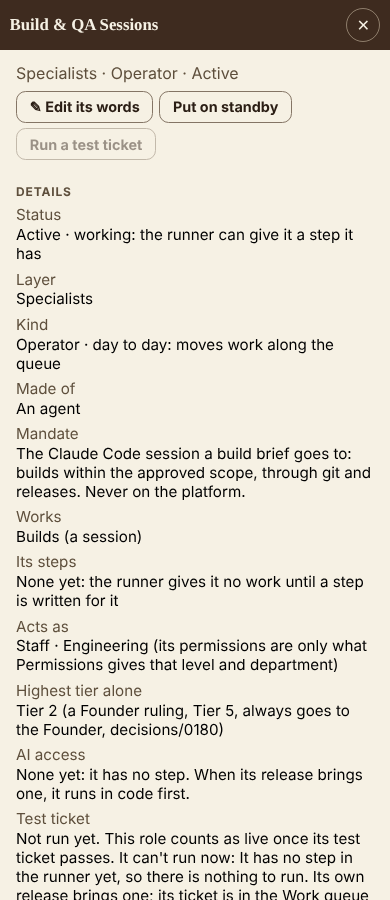
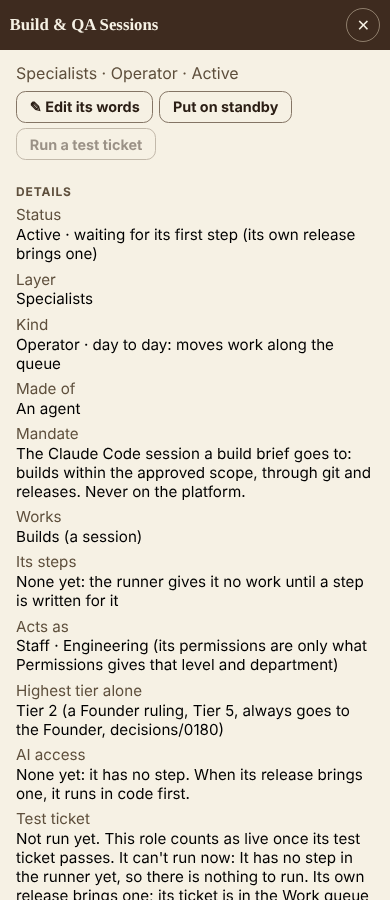
Run a test ticket: the Design look's two word fixes (Status on a role with no step; the greyed button's title checked); still not sent (#1678)
test-ticket.php 45/45, test-ticket.cjs 26/26 at 1280 and 390, audit.php 34.

Claude-Session: https://claude.ai/code/session_01CXLi5jUERktaQyfVHekd5i

Changed region(s): [[0.1846, 0.2489, 0.9231, 0.3111], [0.0615, 0.28, 0.1538, 0.3111]]

diff --git a/tools/team-tests/test-ticket.php b/tools/team-tests/test-ticket.php
@@ -117,6 +117,10 @@ $d = $T['get']($pdo, (int) $role('qa-security')['id']);
 $t('a role that can\'t run yet: the button is greyed with why', str_contains($act($d, 'test')['off'] ?? '', 'no step in the runner yet'));
 $f = []; foreach ($d['fields'] as [$k, $v]) $f[$k] = $v;
 $t('and the page says why in words too (a title never shows on a phone)', str_contains($f['Test ticket'] ?? '', 'Not run yet') && str_contains($f['Test ticket'] ?? '', 'It can\'t run now: It has no step in the runner yet'));
+$t('its Status is true to Its steps: active, waiting for its first step', ($f['Status'] ?? '') === 'Active · waiting for its first step (its own release brings one)' && str_starts_with($f['Its steps'] ?? '', 'None yet'), $f['Status'] ?? '');
+$t('the greyed button\'s reason is the same as its Test ticket row', str_contains($f['Test ticket'], $act($d, 'test')['off']));
+$dp = $T['get']($pdo, (int) $role('project-manager')['id']); $fp = []; foreach ($dp['fields'] as [$k, $v]) $fp[$k] = $v;
+$t('a role with a step keeps its Status words', str_starts_with($fp['Status'] ?? '', 'Active · ') && !str_contains($fp['Status'], 'waiting for its first step'));
 $d = $T['get']($pdo, (int) $role('advocate-guest')['id']); $f = []; foreach ($d['fields'] as [$k, $v]) $f[$k] = $v;
 $t('an advocate\'s page says it only looks, and where its release is', str_contains($f['Test ticket'] ?? '', 'only looks') && str_contains($act($d, 'test')['off'] ?? '', 'only looks'));
 $d = $T['get']($pdo, (int) $role('founder')['id']);

diff --git a/handoffs/team-test-ticket/build/app/admin/tools.php b/handoffs/team-test-ticket/build/app/admin/tools.php
@@ -2479,7 +2479,8 @@ return [
             $vet = is_file(__DIR__ . '/../lib/TeamVet.php'); if ($vet) require_once __DIR__ . '/../lib/TeamVet.php';   // Run a test ticket (Jason, 2026-11-28): the result and its cost, on the role's own page
             $steps = array_map(fn ($k) => TeamRunner::STEPS[$k][1] . ' (' . ['act' => 'acts', 'propose' => 'proposes; a person accepts', 'off' => 'off until agents work past ' . TeamRunner::CEILINGS[$cl][0]][TeamRunner::STEP_AT[$k][$cl]] . ')', $steps0);
             $fields = [
-                ['Status', (TeamRoster::STATUSES[$st][0] ?? $st) . ' · ' . lcfirst(TeamRoster::STATUSES[$st][1] ?? '')],
+                ['Status', $st === 'active' && !$isF && !$adv && !$steps0 ? (TeamRoster::STATUSES[$st][0] ?? $st) . ' · waiting for its first step (its own release brings one)'   // true to Its steps: "None yet" (the Design look, 2026-11-28)
+                    : (TeamRoster::STATUSES[$st][0] ?? $st) . ' · ' . lcfirst(TeamRoster::STATUSES[$st][1] ?? '')],
                 ['Layer', TeamRoster::DEPARTMENTS[$r['department']][0] ?? (TeamRoster::OLD_DEPARTMENTS[$r['department']] ?? $r['department'])],
                 ['Kind', (TeamRoster::KINDS[$r['kind']][0] ?? $r['kind']) . ' · ' . lcfirst(TeamRoster::KINDS[$r['kind']][1] ?? '')],
                 ['Made of', TeamRoster::MADE_OF[$r['made_of']] ?? $r['made_of']],

diff --git a/handoffs/team-test-ticket/README.md b/handoffs/team-test-ticket/README.md
@@ -8,18 +8,21 @@ Ticket: "Ready to be vetted: /admin/config/team shows each role's charter, lane,
   `TeamRunner::run`, then Undo or Dismiss and Withdraw), `last()`, `lastWords()`, `aiWords()`. The last result is one row a role in
   `team_settings` (`vet:<slug>`); no migration.
 - **Changed:** `app/admin/tools.php` (`config/team` only): the fields AI access and Test ticket, the action Run a test ticket
-  (greyed with `off`, as Run the audit now is), and its act. No live line replaced.
+  (greyed with `off`, as Run the audit now is, its title the same reason as its Test ticket row), and its act. One live line
+  replaced: Status on an active role with no step reads "Active · waiting for its first step (its own release brings one)"
+  (the Design look, 2026-11-28).
 - **FAQ:** `faq-entry.md`, to merge into the live `faq.md` at send (faq.md is in flight in pause-1a-4).
 - `TeamRunner.php` is not touched: no rule changes, the tree's approval stays, and nothing clashes with agent 01's held build.
 
 ## Tests (the live app plus this build, with the migrations)
-- `php tools/team-tests/test-ticket.php <root>/app`: 42 of 42 on MariaDB.
-- `node tools/team-tests/test-ticket.cjs <root> <shots>`: 22 of 22 at 1280 and 390 (screens in `screens/`).
+- `php tools/team-tests/test-ticket.php <root>/app`: 45 of 45 on MariaDB.
+- `node tools/team-tests/test-ticket.cjs <root> <shots>`: 26 of 26 at 1280 and 390 (screens in `screens/`).
 - `runner.php` 85 of 85 (its steps check now holds before and after agent 01), `audit.php` 34 of 34.
 
 ## Before it is sent
 1. pause-1a-4 live and synced, then `faq.md` rebuilt on the live copy; zip, zip check, send.
-2. The Design reviewer's look at the drawer at 1280 and 390 (`screens/`).
+2. Design: approved to send by the session manager standing in as the Design look (2026-11-28), with two word fixes, both made
+   (Status on a role with no step; the greyed button's title).
 
 ## Gaps (labelled)
 1. **A test run counts in the Team page's evidence.** It is a real `team_runs` row (dismissed or undone), so "Planning's

diff --git a/tools/team-tests/README.md b/tools/team-tests/README.md
@@ -39,7 +39,7 @@ four folders up from `app/lib/`) naming `DB_DATABASE=lv_main`.
 Piece 2's tests (decisions/0179; `handoffs/piece2-team.md` §12; its README): `roster.php` + `roster.cjs` (the Team), `tickets.php` + `tickets.cjs` (ticket types and stages), `runner.php` + `runner.cjs` (the staging-only runner, the ceiling, the Tier 3 flag), `team-head.cjs` (the Team page's decision tree and how far agents work), `audit.php` (the daily audit, Tier 3 by what a finding touches), `batch.php` + `batch.cjs` + `batch_py.py` (P2-5: the daily batch and emailed answers), `fence.cjs` with `fence-seed.php` (P3-6: the fence's line on a ticket's page at 1280 and 390), `old-suites.sh` (the Work queue's own suites over Piece 2), `rollback.sh` (a release's Roll back proved on the bench)
 - `test-ticket.php` + `test-ticket.cjs` (Run a test ticket, TeamVet; Jason, 2026-11-28): never on live, refused in words with the
   way forward where a role can't run yet, one test ticket through the real `TeamRunner::run`, the result and its cost shown and
-  kept, nothing left in the queue; 42 checks on MariaDB and 22 at 1280 and 390: `php test-ticket.php <root>/app`,
+  kept, nothing left in the queue; 45 checks on MariaDB and 26 at 1280 and 390: `php test-ticket.php <root>/app`,
   `node test-ticket.cjs <root> <shots>`.
 - `team-pm.php` + `team-pm-db.php` (agent 01, the Project Manager's sequence and stall steps; held for a Founder ruling): 50 checks
   without a database, 9 on MariaDB in staging mode.
